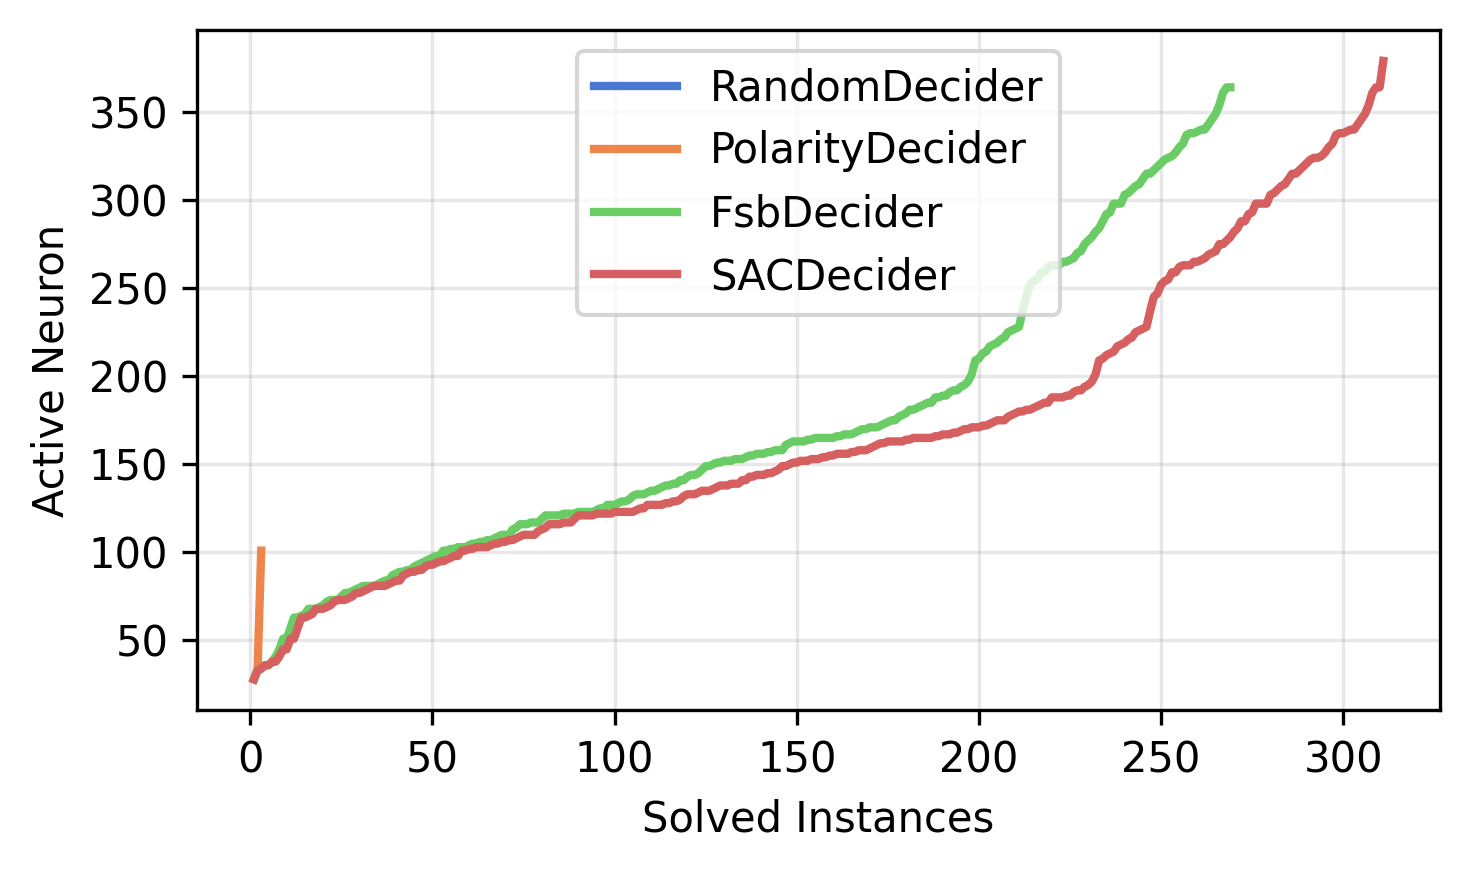
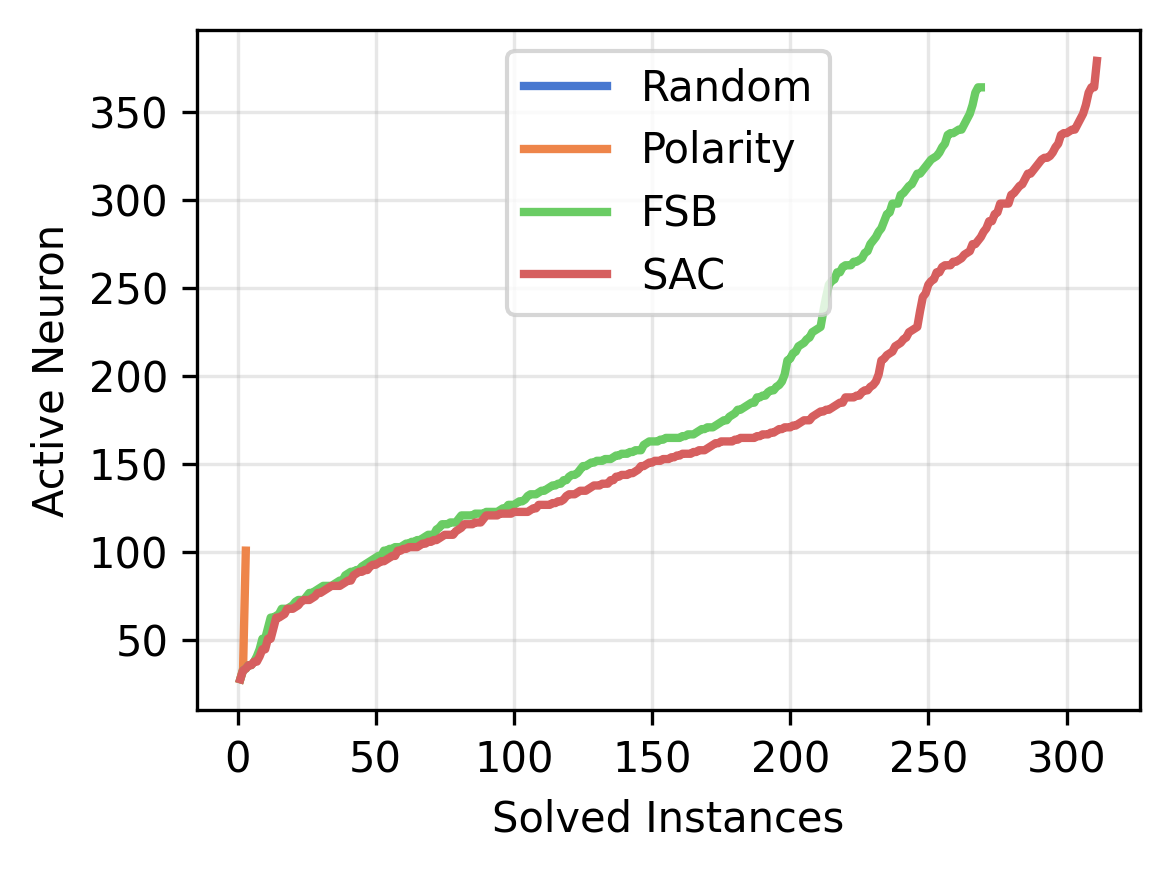
updates

diff --git a/plot/plot_dnnv.py b/plot/plot_dnnv.py
@@ -9,6 +9,13 @@ from heuristic.sac.sac import SACDecider
 from arguments import get_args
 
 
+SOLVER_TO_PLOT_NAME = {
+    'FsbDecider': 'FSB',
+    'PolarityDecider': 'Polarity',
+    'SACDecider': 'SAC',
+    'RandomDecider': 'Random',
+}
+
 def filter_invalid_instances(df, metric='value'):
     # keep only instances solved by at least one solver
     solved_episodes = df[df['done'] == True].groupby('episode').size()
@@ -16,9 +23,9 @@ def filter_invalid_instances(df, metric='value'):
     df = df[df['episode'].isin(valid_episodes)]
     
     # filter out invalid instances: implementation issue - scales produced by SAC are not normalized
-    fsb_data = df[df['solver'] == 'FsbDecider'][['episode', 'done', metric]].rename(
+    fsb_data = df[df['solver'] == SOLVER_TO_PLOT_NAME['FsbDecider']][['episode', 'done', metric]].rename(
         columns={'done': 'fsb_done', metric: 'fsb_value'})
-    sac_data = df[df['solver'] == 'SACDecider'][['episode', 'done', metric]].rename(
+    sac_data = df[df['solver'] == SOLVER_TO_PLOT_NAME['SACDecider']][['episode', 'done', metric]].rename(
         columns={'done': 'sac_done', metric: 'sac_value'})
     comparison = fsb_data.merge(sac_data, on='episode', how='inner')
     exclude_episodes = comparison[
@@ -51,7 +58,7 @@ def extract_data(args, metric='total_time', filter_invalid=True, filter_unknown=
             path = os.path.join(args.csv_dir, args.mode, f'{base_label}_{solver_class.__name__}_top{args.decision_topk_test}.csv')
             
         df = pd.read_csv(path)
-        df['solver'] = solver_class.__name__
+        df['solver'] = SOLVER_TO_PLOT_NAME[solver_class.__name__]
         
         # Add network name for the first len(df) rows from test dataset
         df['network'] = df['episode'].apply(lambda ep: network_names[ep-1].split('_')[-1].split('.')[0]) #  if ep < len(network_names) else 'unknown'
@@ -81,10 +88,10 @@ def extract_data(args, metric='total_time', filter_invalid=True, filter_unknown=
     # Add network column back after pivot
     df['network'] = df.index.map(episode_to_network)
     
-    print(df.head(), len(df))
+    # print(df.head(), len(df))
     # exit()
     for solver in solver_classes:
-        solved = len(df[df[solver.__name__] > 0])
+        solved = len(df[df[SOLVER_TO_PLOT_NAME[solver.__name__]] > 0])
         print(f'{solver.__name__}: {solved}')
         
     return df
@@ -100,7 +107,7 @@ def plot_cactus(args, metric='total_time'):
     solver_classes = [RandomDecider, PolarityDecider, FsbDecider, SACDecider]
     
     for idx, s in enumerate(solver_classes):
-        solver = s.__name__
+        solver = SOLVER_TO_PLOT_NAME[s.__name__]
         values = df[solver][df[solver] > 0].sort_values() # excluding unsolved instances (0)
         x = list(range(1, len(values) + 1))
         
@@ -134,10 +141,11 @@ def plot_bar_improvement(args, metric='value'):
     common_solved = df.copy()
     
     # Calculate improvement: SAC - FSB (positive = SAC is better/higher)
-    common_solved['improvement'] = common_solved['SACDecider'] - common_solved['FsbDecider']
+    common_solved['improvement'] = common_solved[SOLVER_TO_PLOT_NAME['SACDecider']] - common_solved[SOLVER_TO_PLOT_NAME['FsbDecider']]
     
     # Sort by improvement for better visualization
     common_solved = common_solved.sort_values('improvement')
+    print('sum of improvement:', metric, common_solved['improvement'].sum())
     
     # Create colors: muted red for negative (degradation), muted green for positive (improvement)
     muted_palette = sns.color_palette('muted')
@@ -145,7 +153,7 @@ def plot_bar_improvement(args, metric='value'):
     muted_green = muted_palette[2]  # green
     colors = [muted_red if x < 0 else muted_green for x in common_solved['improvement']]
     
-    plt.figure(figsize=(6, 3))
+    plt.figure(figsize=(4, 3))
     bars = plt.bar(range(len(common_solved)), common_solved['improvement'], color=colors, width=1.0)
     
     plt.axhline(y=0, color='black', linestyle='-', linewidth=0.8, alpha=0.5)
@@ -176,7 +184,7 @@ def plot_box(args, metric='value', filter_invalid=False, filter_unknown=True, sh
     # Filter out unsolved instances (value = 0)
     df_long = df_long[df_long[metric] > 0]
     
-    plt.figure(figsize=(5, 3))
+    plt.figure(figsize=(4, 3))
     sns.boxplot(data=df_long, x='solver', y=metric, palette='muted', showfliers=showfliers, width=0.5)
     
     plt.xlabel('')
@@ -197,7 +205,8 @@ if __name__ == '__main__':
     plot_cactus(args, metric='active_neuron')
     
     plot_bar_improvement(args, metric='iteration')
-    # plot_bar_improvement(args, metric='value')
+    plot_bar_improvement(args, metric='value')
+    
     plot_box(args, metric='value', showfliers=False)
     plot_box(args, metric='active_neuron', filter_invalid=True, showfliers=True)
     # plot_box(args, metric='total_time')
